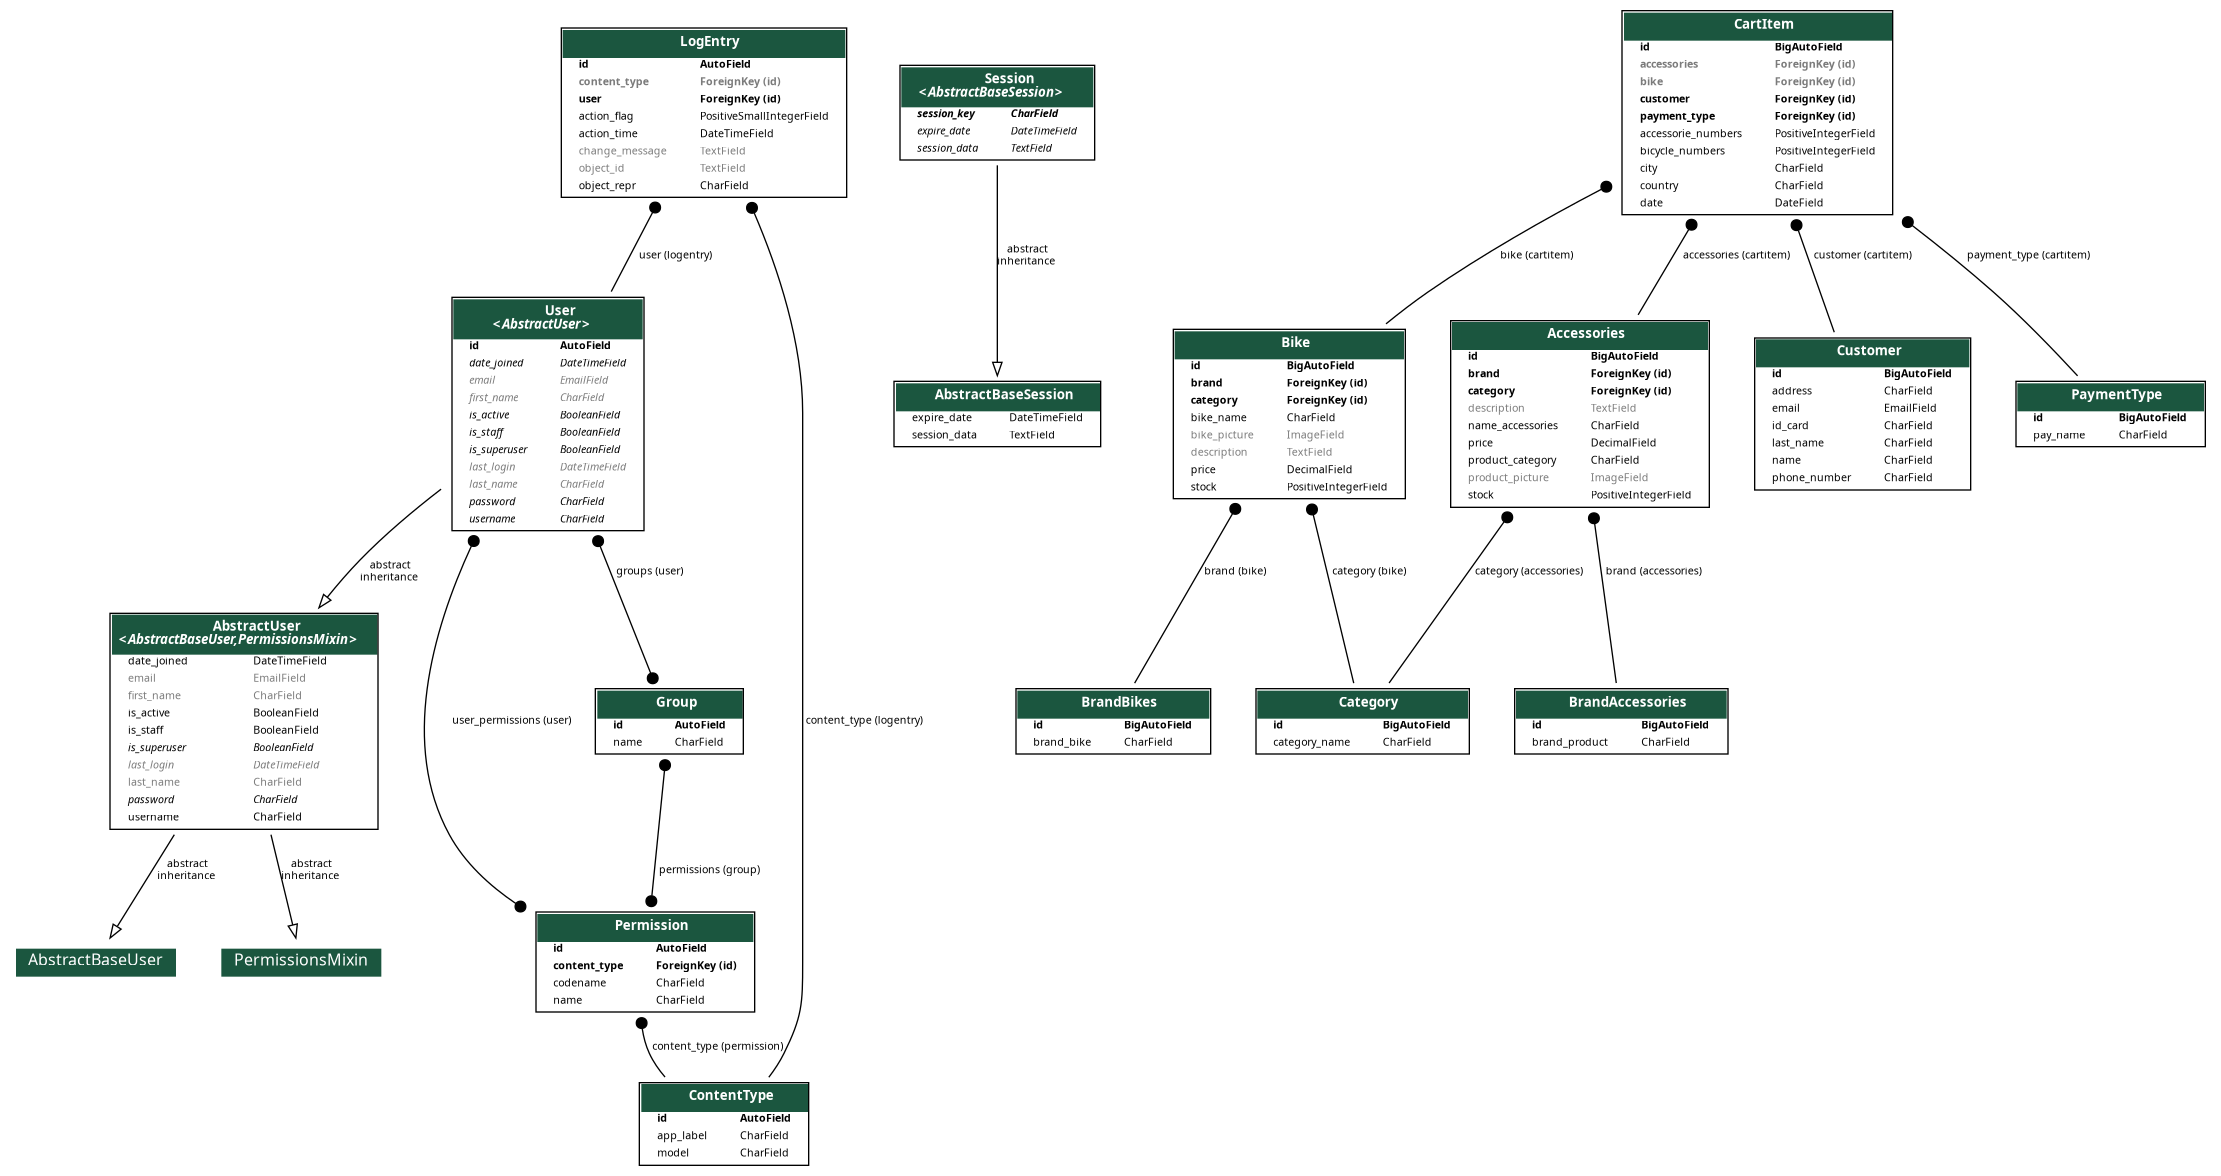
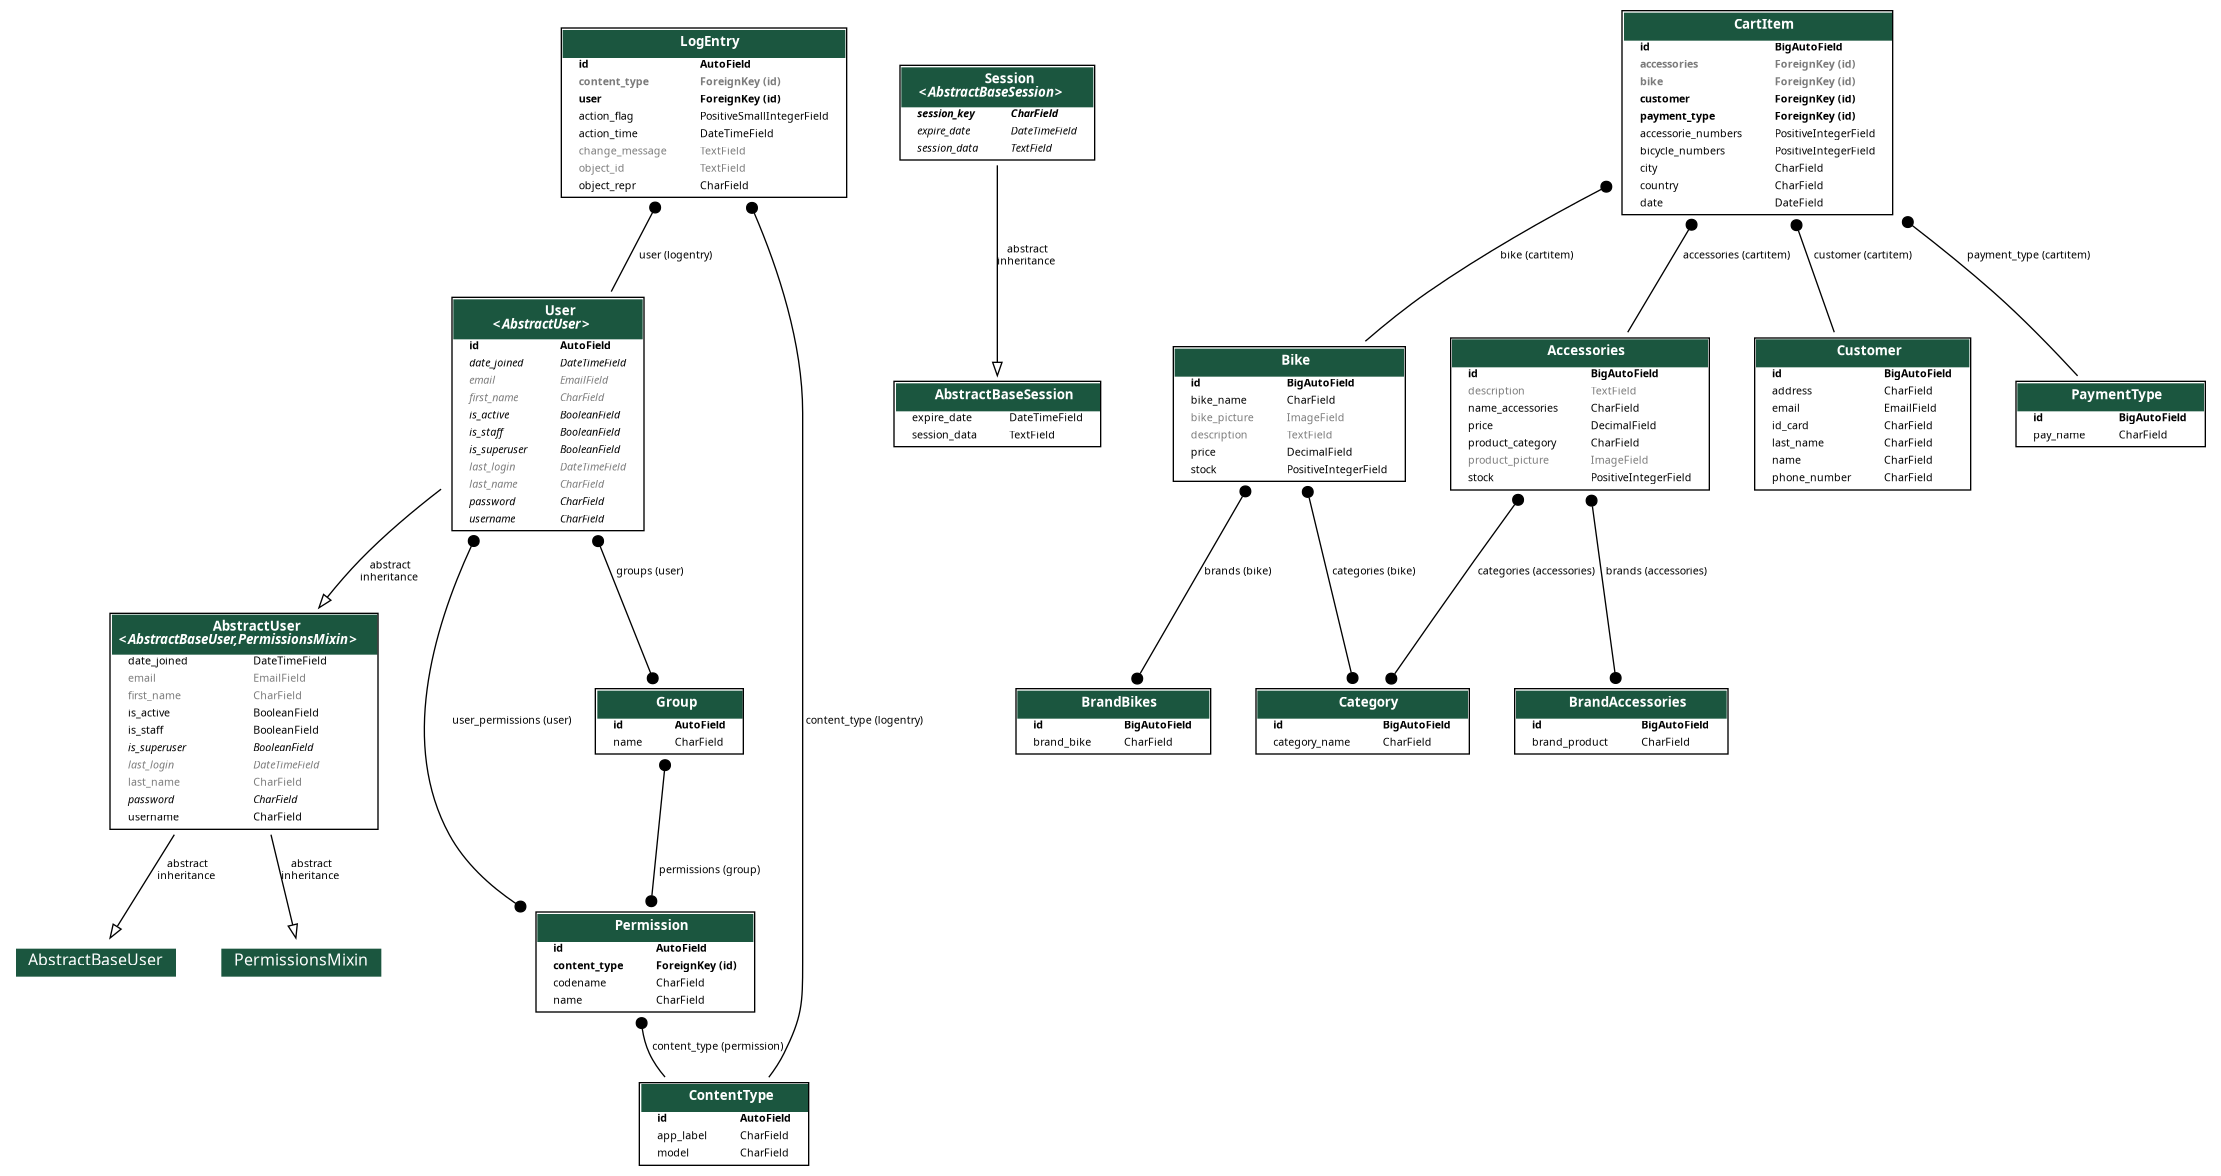
Modelo

Changed region(s): [[0.5281, 0.2449, 0.7767, 0.4898]]

diff --git a/city_cyclist/migrations/0002_initial.py b/city_cyclist/migrations/0002_initial.py
@@ -1,4 +1,4 @@
-# Generated by Django 4.2 on 2024-08-11 02:23
+# Generated by Django 4.2 on 2024-08-11 02:43
 
 import django.core.validators
 from django.db import migrations, models
@@ -19,8 +19,8 @@ class Migration(migrations.Migration):
             fields=[
                 ('id', models.BigAutoField(auto_created=True, primary_key=True, serialize=False, verbose_name='ID')),
                 ('name_accessories', models.CharField(max_length=30, unique=True)),
-                ('product_category', models.CharField(choices=[('Aros', 'Aros'), ('Frenos', 'Frenos'), ('Luces', 'Luces'), ('Casco', 'Casco'), ('Pedales', 'Pedales'), ('Rueda', 'Rueda')], max_length=30)),
-                ('price', models.DecimalField(decimal_places=2, max_digits=10, validators=[django.core.validators.MinValueValidator(0.99, message='El producto mas económico cuesta 0,99')])),
+                ('product_category', models.CharField(choices=[('Aros', 'Aros'), ('Casco', 'Casco'), ('Frenos', 'Frenos'), ('Luces', 'Luces'), ('Pedales', 'Pedales'), ('Rueda', 'Rueda')], max_length=30)),
+                ('price', models.DecimalField(decimal_places=2, max_digits=10, validators=[django.core.validators.MinValueValidator(0.99, message='El producto más económico cuesta 0,99')])),
                 ('stock', models.PositiveIntegerField()),
                 ('description', models.TextField(blank=True, null=True)),
                 ('product_picture', models.ImageField(blank=True, null=True, upload_to='product_images')),
@@ -31,7 +31,7 @@ class Migration(migrations.Migration):
             fields=[
                 ('id', models.BigAutoField(auto_created=True, primary_key=True, serialize=False, verbose_name='ID')),
                 ('bike_name', models.CharField(max_length=50)),
-                ('price', models.DecimalField(decimal_places=2, max_digits=10, validators=[django.core.validators.MinValueValidator(100.0, message='La Bicleta mas económica cuesta $100')])),
+                ('price', models.DecimalField(decimal_places=2, max_digits=10, validators=[django.core.validators.MinValueValidator(100.0, message='La bicicleta más económica cuesta $100')])),
                 ('stock', models.PositiveIntegerField()),
                 ('description', models.TextField(blank=True, null=True)),
                 ('bike_picture', models.ImageField(blank=True, null=True, upload_to='bike_images')),
@@ -94,22 +94,22 @@ class Migration(migrations.Migration):
         ),
         migrations.AddField(
             model_name='bike',
-            name='brand',
-            field=models.ForeignKey(on_delete=django.db.models.deletion.CASCADE, to='city_cyclist.brandbikes'),
+            name='brands',
+            field=models.ManyToManyField(to='city_cyclist.brandbikes'),
         ),
         migrations.AddField(
             model_name='bike',
-            name='category',
-            field=models.ForeignKey(on_delete=django.db.models.deletion.CASCADE, to='city_cyclist.category'),
+            name='categories',
+            field=models.ManyToManyField(to='city_cyclist.category'),
         ),
         migrations.AddField(
             model_name='accessories',
-            name='brand',
-            field=models.ForeignKey(on_delete=django.db.models.deletion.CASCADE, to='city_cyclist.brandaccessories'),
+            name='brands',
+            field=models.ManyToManyField(to='city_cyclist.brandaccessories'),
         ),
         migrations.AddField(
             model_name='accessories',
-            name='category',
-            field=models.ForeignKey(on_delete=django.db.models.deletion.CASCADE, to='city_cyclist.category'),
+            name='categories',
+            field=models.ManyToManyField(to='city_cyclist.category'),
         ),
     ]

diff --git a/city_cyclist/models.py b/city_cyclist/models.py
@@ -23,45 +23,46 @@ class BrandAccessories(models.Model):
 class Bike(models.Model):
     bike_name = models.CharField(max_length=50)
     price = models.DecimalField(max_digits=10, decimal_places=2, 
-                                validators=[MinValueValidator(100.00, message="La Bicleta mas económica cuesta $100")]) 
+                                validators=[MinValueValidator(100.00, message="La bicicleta más económica cuesta $100")]) 
     stock = models.PositiveIntegerField() 
     description = models.TextField(blank=True, null=True)
-    brand = models.ForeignKey(BrandBikes, on_delete=models.CASCADE) 
-    category = models.ForeignKey(Category, on_delete=models.CASCADE)
+    brands = models.ManyToManyField(BrandBikes)  # Relación de muchos a muchos con las marcas
+    categories = models.ManyToManyField(Category)  # Relación de muchos a muchos con las categorías
     bike_picture = models.ImageField(upload_to='bike_images', blank=True, null=True)
 
-    
     def __str__(self):
-        return f'{self.bike_name} - {self.brand} - {self.category}'
-
+        brands = ", ".join([str(brand) for brand in self.brands.all()])
+        categories = ", ".join([str(category) for category in self.categories.all()])
+        return f'{self.bike_name} - {brands} - {categories}'
 
 class Accessories(models.Model):
     name_accessories = models.CharField(max_length=30, unique=True)
-    PRODUCT_CATEGORY= {
+    PRODUCT_CATEGORY = [
         ("Aros", "Aros"),
         ("Casco", "Casco"),
         ("Frenos", "Frenos"),
-        ("Luces","Luces"),
+        ("Luces", "Luces"),
         ("Pedales", "Pedales"),
         ("Rueda", "Rueda")
-    }
+    ]
     product_category = models.CharField(max_length=30, choices=PRODUCT_CATEGORY, null=False)
     price = models.DecimalField(max_digits=10, decimal_places=2,
-                                validators=[MinValueValidator(0.99, message="El producto mas económico cuesta 0,99")]) 
+                                validators=[MinValueValidator(0.99, message="El producto más económico cuesta 0,99")]) 
     stock = models.PositiveIntegerField() 
     description = models.TextField(blank=True, null=True)
-    brand = models.ForeignKey(BrandAccessories, on_delete=models.CASCADE) 
-    category = models.ForeignKey(Category, on_delete=models.CASCADE)
+    brands = models.ManyToManyField(BrandAccessories)  # Relación de muchos a muchos con las marcas
+    categories = models.ManyToManyField(Category)  # Relación de muchos a muchos con las categorías
     product_picture = models.ImageField(upload_to='product_images', blank=True, null=True)
 
     def __str__(self):
-       return f'{self.name_accessories} - {self.brand} - {self.category}'
-
+        brands = ", ".join([str(brand) for brand in self.brands.all()])
+        categories = ", ".join([str(category) for category in self.categories.all()])
+        return f'{self.name_accessories} - {brands} - {categories}'
 
 class Customer(models.Model):
     name = models.CharField(max_length=30, null=False)
     last_name = models.CharField(max_length=30, null=False)
-    id_card = models.CharField(unique=True,validators=[
+    id_card = models.CharField(unique=True, validators=[
                                         RegexValidator(
                                             regex=r'^\d{10}$',
                                             message='El número de cédula debe tener 10 dígitos.'
@@ -78,7 +79,6 @@ class Customer(models.Model):
 
     def __str__(self):
         return f'{self.name} {self.last_name}'
-
 
 class PaymentType(models.Model):
     pay_name = models.CharField(max_length=30, null=False, unique=True)

diff --git a/bicycle_shop/settings.py b/bicycle_shop/settings.py
@@ -78,7 +78,7 @@ WSGI_APPLICATION = 'bicycle_shop.wsgi.application'
 DATABASES = {
     'default': {
         'ENGINE': 'django.db.backends.postgresql',
-        'NAME': 'mxzn',
+        'NAME': 'csvc',
         'HOST': 'localhost',
         'PORT': '5432',
         'USER': 'stalin',

diff --git a/city_cyclist/migrations/0001_initial.py b/city_cyclist/migrations/0001_initial.py
@@ -1,4 +1,4 @@
-# Generated by Django 4.2 on 2024-08-11 02:23
+# Generated by Django 4.2 on 2024-08-11 02:42
 
 from django.db import migrations
 
